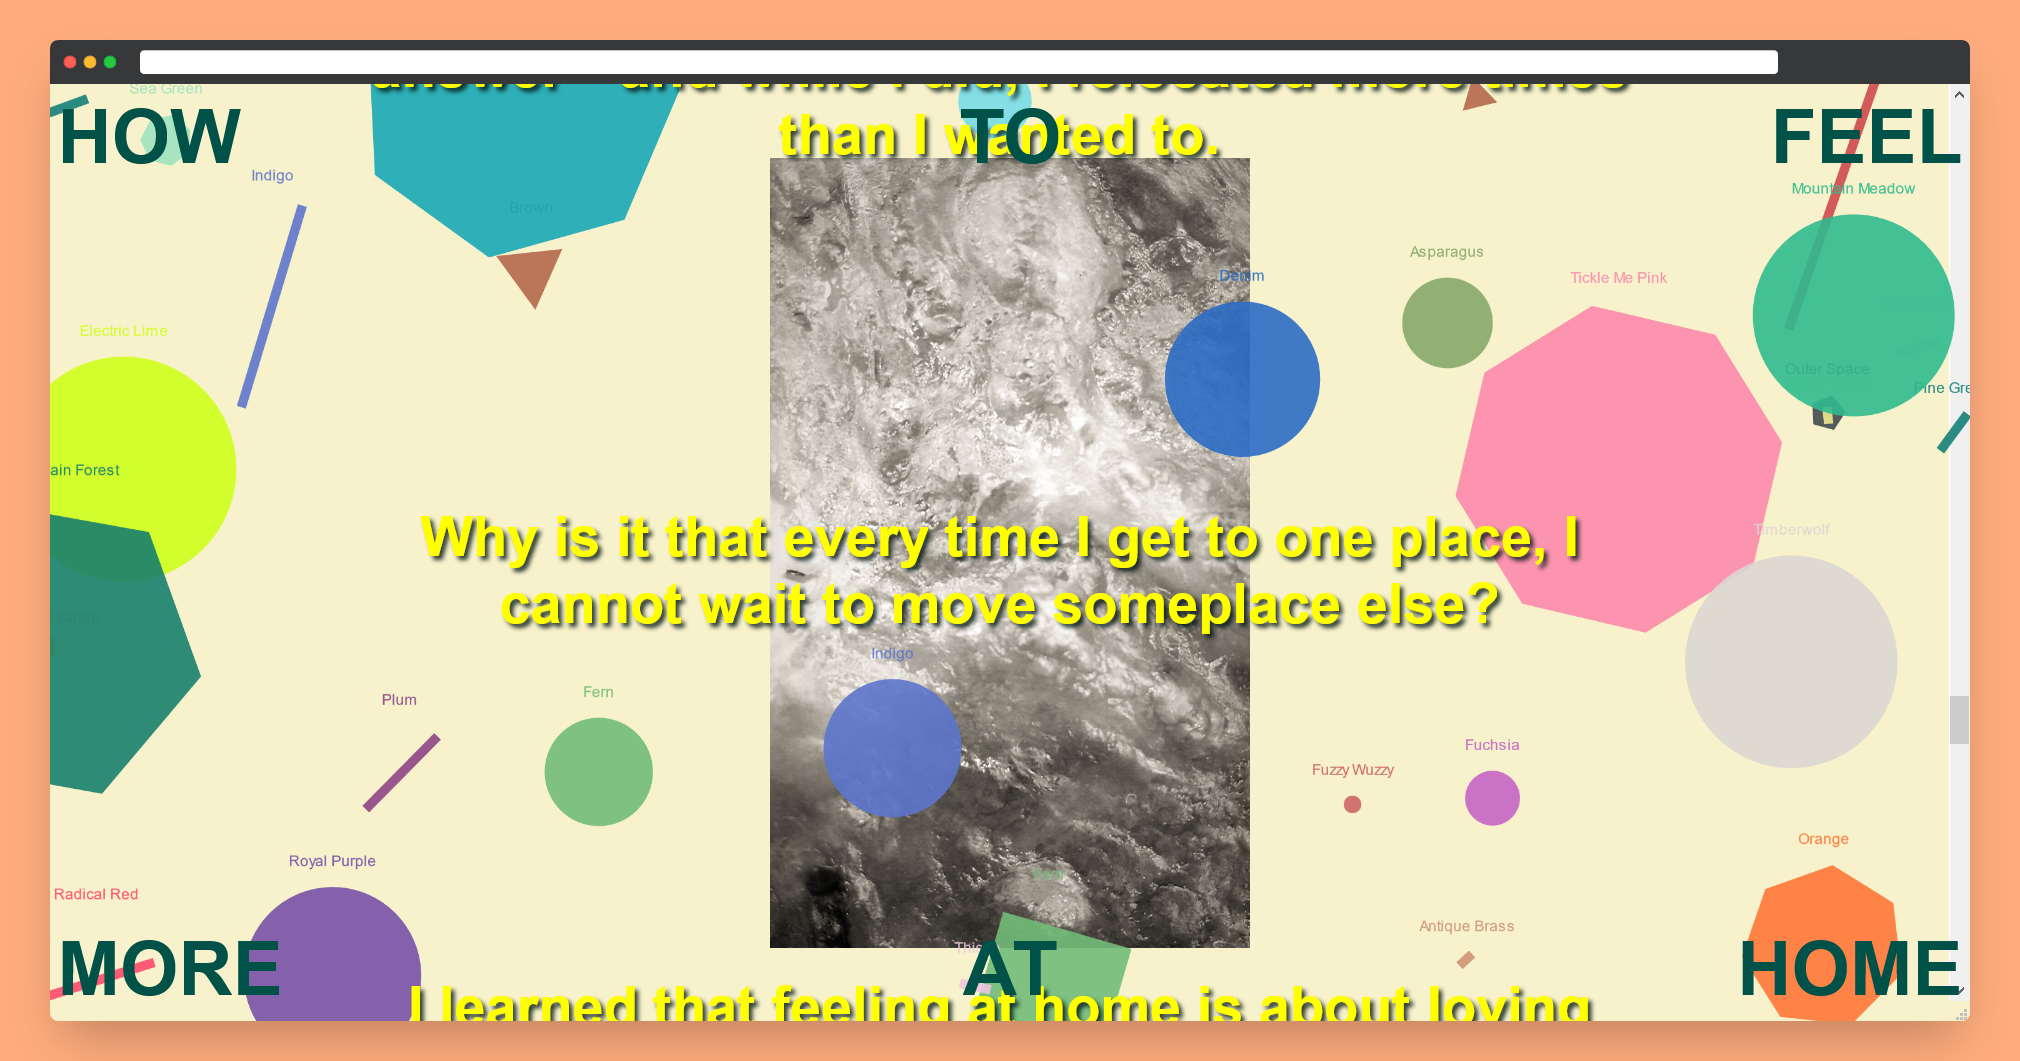
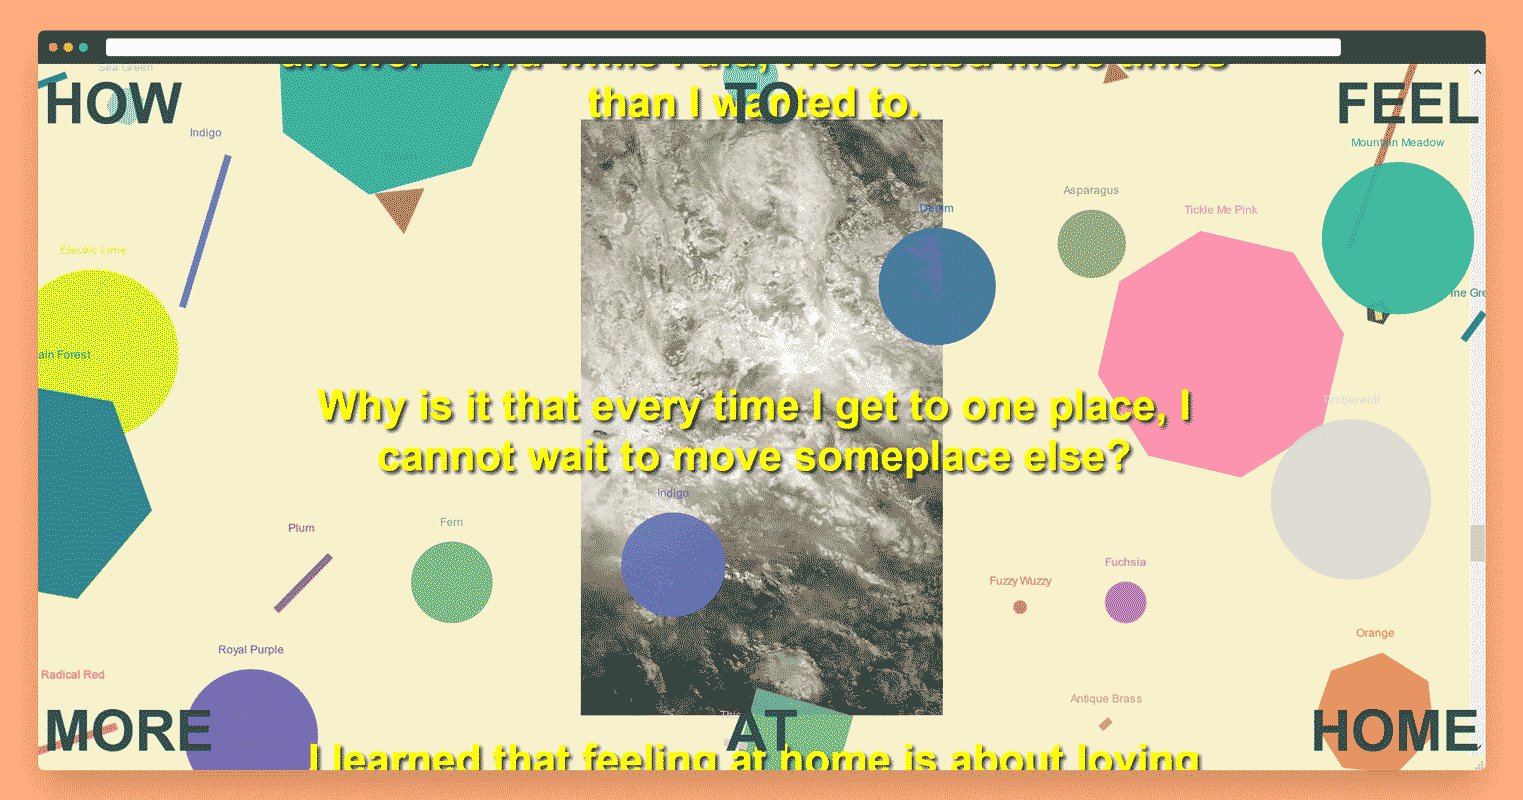
many many changes

diff --git a/_sass/_style.scss b/_sass/_style.scss
@@ -1,7 +1,7 @@
 //Colors
-$site-background: hsl(218, 87%, 8%);
+$site-background: #031026;
 $primary: mix($site-background, white, 12%);
-$links: hsl(200, 80%, 51%);
+$links: #1ea3e6;
 $color-box-background: mix($site-background, white, 88%);
 $lighter: mix($site-background, white, 50%);
 
@@ -9,7 +9,7 @@ $lighter: mix($site-background, white, 50%);
 $size: #{"min(max(16px, 1.5vw), 28px);"};
 $rootsize: 1em;
 $line-h: $rootsize+($rootsize * 0.25);
-$small: 0.8em;
+$small: #{"min(max(14px, 1.25vw), 28px);"};
 $under-line: $rootsize * 0.08;
 $border-radius: $rootsize * 0.25;
 
@@ -28,6 +28,9 @@ Segoe UI Symbol;
 
 $mono-family: "DM Mono",
 monospace;
+
+$nweight: 400;
+$bweight: 500;
 
 /* 
 //Debug
@@ -54,7 +57,7 @@ body {
   font-size: $rootsize;
   font-family: $font-family;
   font-display: swap;
-  font-weight: 500;
+  font-weight: $nweight;
   line-height: $line-h;
   color: $primary;
   overflow: initial;
@@ -70,12 +73,17 @@ body {
   max-width: 100vw;
   overflow-x: hidden;
 
-  @media screen and (min-width: 813px) and (max-width: 1025px) {
-    padding-right: $line-h * 6;
-    padding-left: $line-h * 6;
+  @media screen and (max-width: 812px) {
+    padding-right: $line-h;
+    padding-left: $line-h;
   }
 
-  @media screen and (min-width: 1026px) {
+  @media screen and (min-width: 812px) and (max-width: 1036px) {
+    padding-right: $line-h * 4;
+    padding-left: $line-h * 4;
+  }
+
+  @media screen and (min-width: 1036px) {
     padding-right: $line-h * 10;
     padding-left: $line-h * 10;
   }
@@ -86,7 +94,7 @@ body {
 }
 
 p {
-  font-weight: 500;
+  font-weight: $nweight;
   font-style: normal;
   line-height: inherit;
   margin-top: $line-h / 2;
@@ -100,7 +108,7 @@ h4,
 h5,
 h6 {
   line-height: initial;
-  font-weight: 500;
+  font-weight: $bweight;
   font-style: normal;
   margin-top: 0;
 }
@@ -117,7 +125,9 @@ h3 {
   font-size: $rootsize * 1.15;
 }
 
-h4, h5, h6 {
+h4,
+h5,
+h6 {
   font-size: $rootsize;
 }
 
@@ -131,13 +141,17 @@ em {
   font-style: italic;
 }
 
+iframe {
+  margin: 0 0 $line-h 0;
+}
+
 
 /*Add the correct font weight in Chrome, Edge, and Safari*/
 
 b,
 strong {
   font-weight: bolder;
-  font-weight: 700;
+  font-weight: $bweight;
 }
 
 a {
@@ -248,21 +262,23 @@ nav {
       font-size: 1.6em;
     }
 
-    @media screen and (min-width: 377px) and (max-width: 566px) {
+    @media screen and (min-width: 376px) and (max-width: 566px) {
       font-size: 2em;
     }
 
-    @media screen and (min-width: 567px) and (max-width: 813px) {
+    @media screen and (min-width: 566px) and (max-width: 812px) {
       font-size: 3em;
     }
 
-    @media screen and (min-width: 814px) {
+    @media screen and (min-width: 812px) {
       font-size: 4em;
     }
   }
 
   #breadcrumbs {
-    h1, h2 {
+
+    h1,
+    h2 {
       display: inline;
       font-size: unset;
       margin: unset;
@@ -312,8 +328,12 @@ img {
 
 .mygrid {
   display: grid;
-  grid-gap: $rootsize / 2;
+  grid-gap: $rootsize / 1.5;
   grid-template-columns: 1fr;
+
+  h3 {
+    margin: 0;
+  }
 }
 
 .notes-entry-container img {
@@ -326,21 +346,46 @@ img {
   background: $color-box-background;
   border-radius: $border-radius;
   padding: 0.65em;
+  overflow: hidden;
   transition: ($transtime / 1.5) ease-in-out;
 
+  h3 {
+    display: block;
+    margin: 0 0.5em 0 0;
+
+    @media screen and (max-width: 812px) {
+      white-space: nowrap;
+      overflow: hidden;
+      text-overflow: ellipsis;
+      color: $links;
+    }
+  }
+
   div {
-    margin-top: $rootsize / 4;
+    margin: ($rootsize / 4) 0.5em 0 0;
     font-size: $small;
     transition: color ($transtime / 2) ease-in-out;
+  }
+
+  img {
+    display: block;
+    margin: 0 0 0.5em 0;
+
+    @media screen and (min-width: 812px) {
+      float: left;
+      max-width: 50%;
+      margin: 0 1em 0 0;
+    }
   }
 
   &:hover,
   &:focus,
   &:active {
     cursor: pointer;
-    transform: scale(1.04);
+    transform: scale(1.015);
 
-    a {
+    a,
+    h3 {
       color: $primary;
       text-decoration: underline;
       -webkit-text-decoration-color: $links;
@@ -351,6 +396,10 @@ img {
       color: $lighter;
     }
   }
+}
+
+.nobr {
+  white-space:nowrap; 
 }
 
 .callout {

diff --git a/_includes/selprojects.html b/_includes/selprojects.html
@@ -1,14 +1,25 @@
 <div class="mygrid">
+    <span>2021</span>
     <div class="backlink-box">
-        <a href="/now" class="internal-link">How to feel more at home</a><br>
-        <div>Poetry, Photography, Sound Design</div>
+        <img alt="" loading="lazy" data-src="assets\rayglow\rayglow.png" class="lazyload"/>
+        <h3><a href="/rayglow" class="internal-link">Ray-Glow</a></h3>
+        <div>Creative Coding</div>
+    </div>
+    <span>2020</span>
+    <div class="backlink-box">
+        <img alt="" loading="lazy" data-src="assets\hftmah\htfmat.png" class="lazyload"/>
+        <h3><a href="/feelmoreathome" class="internal-link">How to feel more at home</a></h3>
+        <div><span>Poetry</span> <span>Photography</span><span>Sound Design</span></div>
     </div>
     <div class="backlink-box">
-        <a href="/thissite" class="internal-link">Feed Your Demons and Meet the Ally</a><br>
+        <img alt="" loading="lazy" data-src="assets\feedyourdemons\sitescreenshot.png" class="lazyload"/>
+        <h3><a href="/feedyourdemons" class="internal-link">Feed Your Demons and Meet the Ally</a></h3>
         <div>Curation, Writing, Web Design</div>
     </div>
     <div class="backlink-box">
-        <a href="/about" class="internal-link">Everything You See Is In The Past</a><br>
+        <img alt="" loading="lazy" data-src="assets\everythingyousee\altmockup.png" class="lazyload"/>
+        <h3><a href="/everythingyousee" class="internal-link">Everything You See Is In The Past</a></h3>
         <div>Curation, Writing, Web and Graphic Design</div>
     </div>
 </div>
+

diff --git a/_includes/jump-to.html b/_includes/jump-to.html
@@ -1,7 +1,7 @@
 <br>
 <h2>Jump to</h2>
 <div class="mygrid">
-    <div class="backlink-box"><a href="/now" class="internal-link">What's at the top of my mind</a></div>
-    <div class="backlink-box"><a href="/thissite" class="internal-link">How I built this site</a></div>
-    <div class="backlink-box"><a href="/about" class="internal-link">About</a></div>
+    <h3 class="backlink-box"><a href="/now" class="internal-link">What's at the top of my mind</a></h3>
+    <h3 class="backlink-box"><a href="/thissite" class="internal-link">How I built this site</a></h3>
+    <h3 class="backlink-box"><a href="/about" class="internal-link">About</a></h3>
 </div>

diff --git a/_includes/styles.html b/_includes/styles.html
@@ -1,8 +1,6 @@
 <!--  Load GoogleFont -->
-<link rel="preconnect" href="https://fonts.gstatic.com" />
-<link
-    href="https://fonts.googleapis.com/css2?family=DM+Mono:wght@500&family=DM+Sans:ital,wght@0,500;0,700;1,500;1,700&display=swap"
-    rel="stylesheet" />
+<link rel="preconnect" href="https://fonts.gstatic.com">
+<link href="https://fonts.googleapis.com/css2?family=DM+Mono:ital,wght@0,400;0,500;1,400;1,500&family=DM+Sans:ital,wght@0,400;0,500;1,400;1,500&display=swap" rel="stylesheet"> 
 <!--  Load CSS -->
 <link type="text/css; charset=utf-8" href="{{ site.baseurl }}/styles.css" rel="stylesheet" />
 <!--  Load FontAwesome -->

diff --git a/_notes/feed-your-demons.md b/_notes/feed-your-demons.md
@@ -4,26 +4,25 @@ permalink: /feedyourdemons
 ---
 Cross-referencing mythology, pop culture, the supernatural, and digital selfhood, the works presented in this ZIP-compressed exhibition explore fears, desires, and obstacles artists face within themselves in times of crisis and isolation.
 
-Feed Your Demons and Meet the Ally is curated by Magda Żołędź (of ONE Project) and Francesco Imola. The exhibition was presented on July 2, 2020, with an online opening featuring interviews, Q&As, and workshops with artists in the show.
+Feed Your Demons and Meet the Ally is curated by Magda Żołędź (of [ONE Project](https://one-project.co.uk/)) and Francesco Imola. The exhibition was presented on 2nd July 2 2020 with an online opening featuring interviews, Q&As, and workshops with artists in the show.
 
-<a class="imga" href="https://francescoimola.github.io/htfmat/" target="_blank">
-    <img loading="lazy" 
-    data-src="assets/feedyourdemons/feed-your-demons_1.jpeg"
-    class="lazyload"/></a>
 
-<a class="imga" href="https://francescoimola.github.io/htfmat/" target="_blank">
-    <img loading="lazy" 
-    data-src="assets/feedyourdemons/feed-your-demons_2.png"
-    class="lazyload"/></a>
+<br>
+<img loading="lazy" 
+    data-src="assets\feedyourdemons\feed-your-demons.png"
+    class="lazyload"/>
 
-<a class="imga" href="https://francescoimola.github.io/htfmat/" target="_blank">
-    <img loading="lazy" 
-    data-src="assets/feedyourdemons/feed-your-demons_3.png"
-    class="lazyload"/></a>
+<img loading="lazy" 
+    data-src="assets\feedyourdemons\arenachannel.png"
+    class="lazyload"/>
+
+<img loading="lazy" 
+    data-src="assets\feedyourdemons\sitescreenshot.png"
+    class="lazyload"/>
 
 ### Links
 
-The exhibition has ended, but you can still [request the ZIP file via email]( mailto:frn.imola@gmail.com?subject=Feed%20Your%20Demons%20and%20Meet%20the%20Ally%20-%20ZIP%20File&body=Hello!)
+The exhibition has ended, but you can still [request the ZIP file via email](mailto:frn.imola@gmail.com?subject=Feed%20Your%20Demons%20and%20Meet%20the%20Ally%20-%20ZIP%20File&body=Hello!)
 
 [Read the documentation](https://feedyourdemons.cargo.site/)
 
@@ -37,5 +36,3 @@ Listen to the exhibition soundtrack
 
 Curation, Writing, Web Design
 
-<br>
-↩  Back to [[Selected Work]]

diff --git a/_notes/how-to-feel-more-at-home.md b/_notes/how-to-feel-more-at-home.md
@@ -3,26 +3,19 @@ title: How to feel more at home, 2020
 permalink: /feelmoreathome
 ---
 
-Webwork, part of an [ongoing project](https://www.are.na/francesco-imola-2o2ng4qooxm/how-to-feel-more-at-home), articulating personal ideas of home, what (and who) makes one, and how to find meaning living inbetween homes. 
+Webwork, part of an [ongoing observation](https://www.are.na/francesco-imola-2o2ng4qooxm/how-to-feel-more-at-home), exploring and articulating personal ideas of home, what (and who) makes one, and how to find meaning living inbetween homes. 
 
-<a class="imga" href="https://francescoimola.github.io/htfmat/" target="_blank">
-    <img loading="lazy" 
-    data-src="assets/hftmah/htfmah1.png"
-    class="lazyload"/></a>
+<img loading="lazy" data-src="assets/hftmah/htfmah1.png"
+    class="lazyload"/>
 
-<a class="imga" href="https://francescoimola.github.io/htfmat/" target="_blank">
-    <img loading="lazy" 
-    data-src="assets/hftmah/htfmah2.png"
-    class="lazyload"/></a>
-
-<a class="imga" href="https://francescoimola.github.io/htfmat/" target="_blank">
-    <img loading="lazy" 
-    data-src="assets/hftmah/htfmah3.png"
-    class="lazyload"/></a>
+<img loading="lazy" data-src="assets/hftmah/htfmah2.png"
+    class="lazyload"/>
 
 ### Links
 
 [Visit the work](https://francescoimola.github.io/htfmat/) 
+
+[Check out its code](https://github.com/francescoimola/htfmat)
 
 [Explore the Are.na channel](https://www.are.na/francesco-imola-2o2ng4qooxm/how-to-feel-more-at-home)
 
@@ -32,11 +25,9 @@ Coding, Poetry, Digital and Film Photography, Sound Design
 
 Built using [p5.js](https://p5js.org/), [Tone.js](https://tonejs.github.io/), and [Tonal](https://github.com/tonaljs/tonal)
 
-Tested on desktop Firefox and Chrome, and mobile iOS Safari. Might not work as intended on other devices/browsers
+Tested on desktop Firefox and Chrome, and mobile iOS Chrome. Might not work as intended on other devices/browsers
 
 ### License
 
-Creative Commons Attribution-ShareAlike 4.0 International License
+Creative Commons Attribution - Share Alike 4.0 International License
 
-<br>
-↩  Back to [[Selected Work]]

diff --git a/_notes/rayglow.md b/_notes/rayglow.md
@@ -1,0 +1,24 @@
+---
+title: Everything You See In In The Past, 2020
+permalink: /rayglow
+---
+In a time where offline life has become so intertwined with the online, how are artists and curators responding to digital culture?
+
+_Everything You See Is In The Past_ is a curatorial research project and exhibition exploring the impact of the internet and contemporary digital culture on the practice of artist-curators. The project began in September 2019 and culminated in May 2020 with an exhibition and accompanying catalogue.
+
+<img alt="'Everything You See Is In The Past' Exhibition Catalogue as a Slideshow GIF" loading="lazy" data-src="https://d2w9rnfcy7mm78.cloudfront.net/7407935/original_d983f2c3d43ce6f59903dc7488a6c164.gif?1590326044?bc=0" class="lazyload"/>
+_Exhibition Catalogue (Slideshow GIF)_
+
+<img alt="Screenshot of the exhibition homepage" loading="lazy" data-src="assets/everythingyousee/exhibition-homepage.png" class="lazyload"/>
+_Exhibition homepage_
+
+<img alt="Screenshot of the opening event" loading="lazy" data-src="assets/everythingyousee/opening-event.png" class="lazyload"/>
+_Still from the opening event on Zoom, 28 March 2020_ 
+
+### Links
+
+[Explore the exhibition catalogue](https://arena-attachments.s3.amazonaws.com/7413063/c6f7ebaf91a84dd94ae368676d6010a2.pdf?1590356387)
+[Project Timeline](https://there.am/eysiitp-project-portfolio-francesco-imola/)<br>
+[Literature Review](https://there.am/eysiitp-project-portfolio-francesco-imola/survey-of-literature/)<br>
+[Practice Review](https://there.am/eysiitp-project-portfolio-francesco-imola/practice-review/)
+[Further Documentation](https://there.am/eysiitp-project-portfolio-francesco-imola/research-practice-application/)<br>

diff --git a/_pages/index.md b/_pages/index.md
@@ -4,11 +4,11 @@ title: Home
 id: home
 permalink: /
 ---
-I am an artist, designer, and curator based in London. This site is a living public digital space: here I gather my work, ideas, hobbies, goals, and passions. 
+I am an artist, designer, curator, and event programmer based in London. This site is a living public digital space: here I gather my work, ideas, hobbies, goals, and passions. 
 
 While the majority of this site is made up of notes, they are not its entirety. This is a greenhouse where new ideas grow, a workshop where I create new things, and my portfolio of past and WIP projects.
 
-For now, there's no index or navigational aid: you’ll need to follow a link to some starting point. [[now|Welcome]] &#128075;
+For now, there's no index or navigational aid: you’ll need to follow a link to some starting point. <span class=".nobr">[[now|Welcome]] &#128075;</span>
 
 <br>
 
